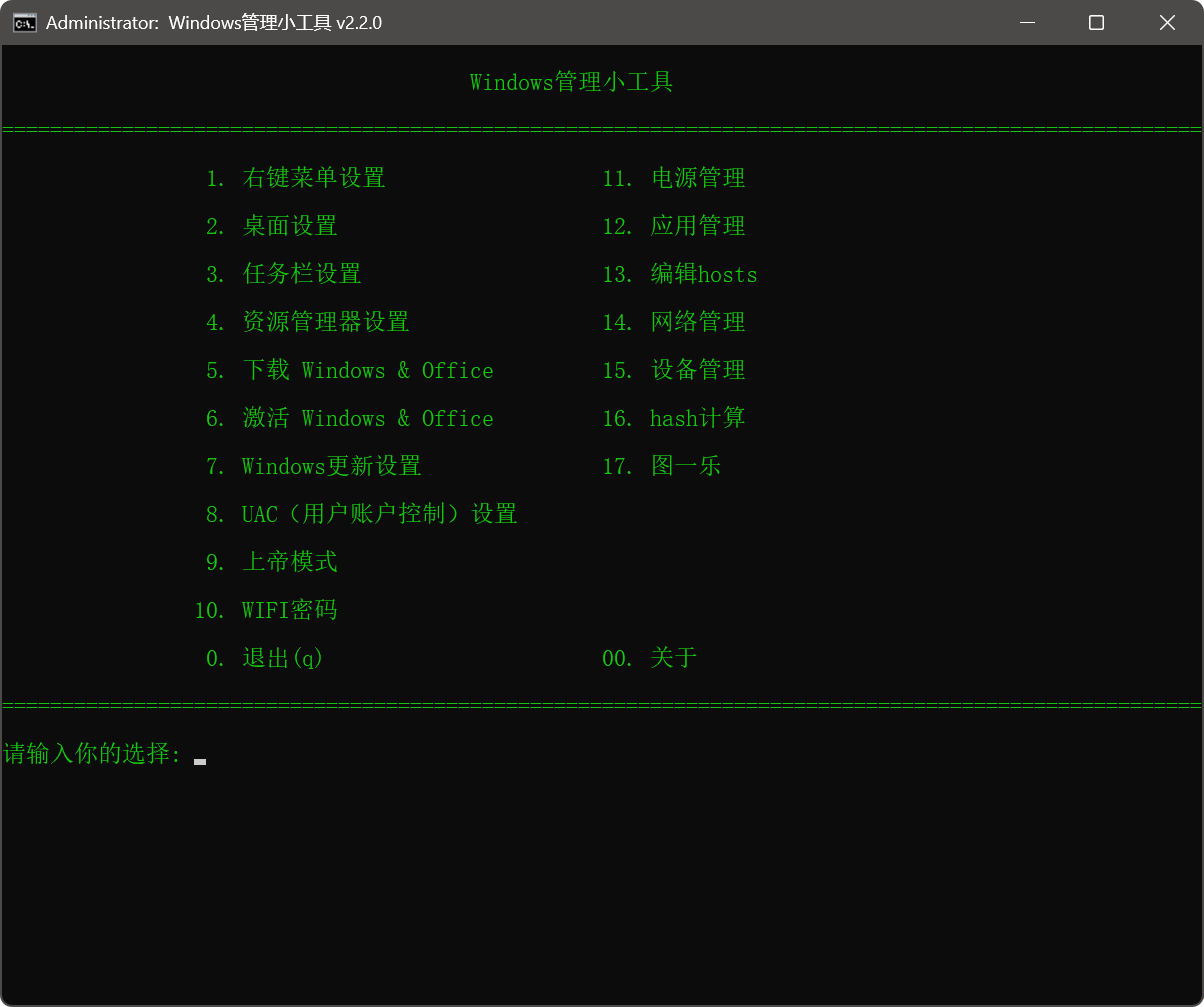
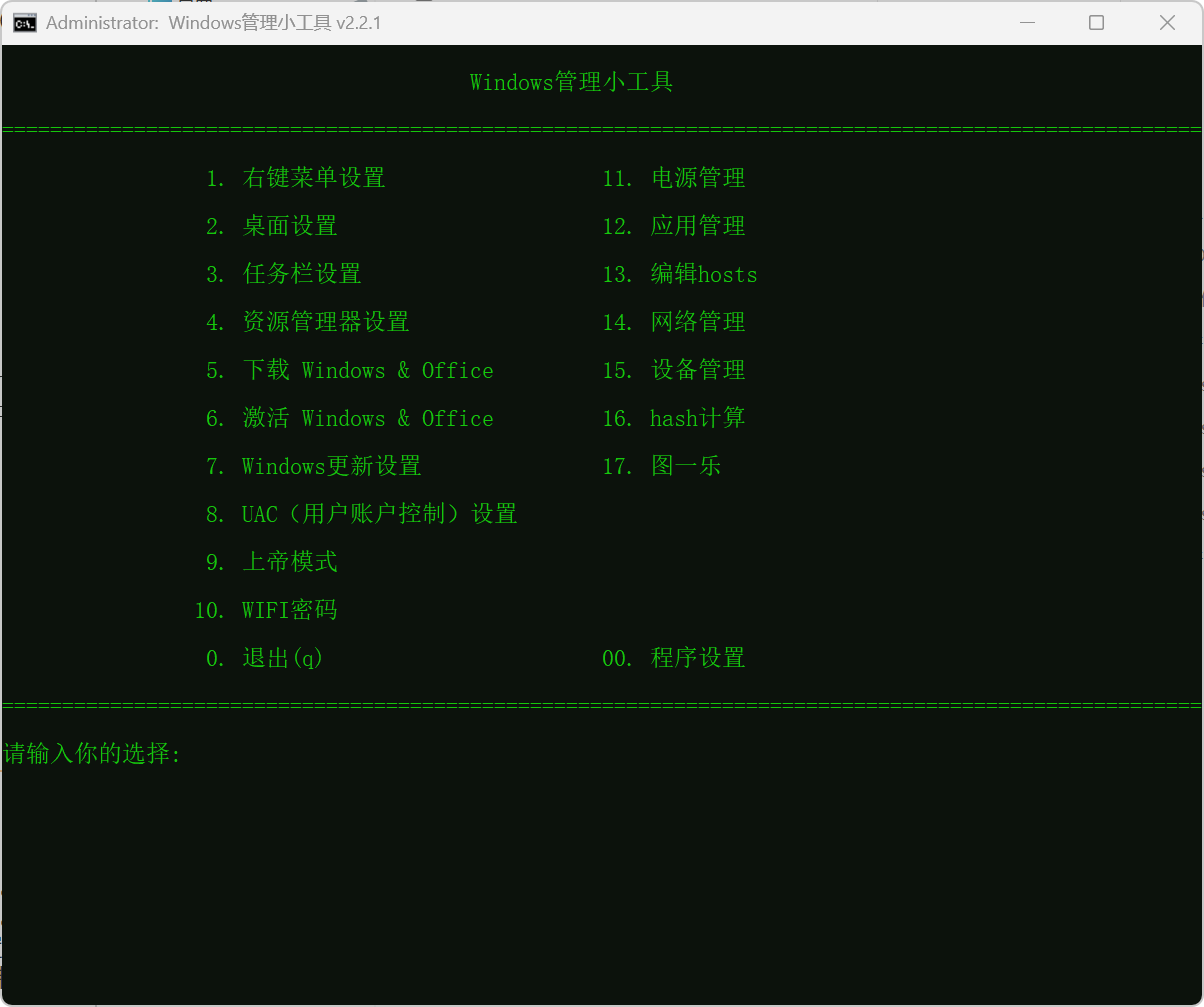
v2.2.1版本，关于更换为程序设置，包含（更换主题，检查更新，关于）; 桌面设置修复添加网络连接不生效问题

Changed region(s): [[0.0, 0.0, 1.0, 0.0616], [0.0, 0.9851, 1.0, 1.0], [0.5224, 0.6465, 0.6146, 0.6773]]

diff --git a/README.md b/README.md
@@ -26,7 +26,7 @@
 | 14       | 🖧  网络管理               |
 | 15       | 🛠  设备管理               |
 | 16       | 😄 图一乐                  |
-| 00       | ℹ 关于                    |
+| 00       | ⚙ 程序设置                    |
 | 0 / q    | ❌ 退出程序                |
 
 ## ✏详细功能
@@ -49,6 +49,7 @@
   - 显示windows版本水印
   - 隐藏windows版本水印
   - 设置Bing每日桌面背景
+  - 提取桌面壁纸
 - 任务栏设置
   - 一键净化任务栏
   - 禁用小组件
@@ -159,19 +160,21 @@
   - 照相机开关
   - 蓝牙开关
 - 图一乐
-- 关于
+- 程序设置
+  - 更换主题
   - 检查更新
+  - 关于
 
 ## 📦 使用说明
 
-1. **双击Windows管理小工具.bat运行**  
+1. **双击 `WindowsManageTool.bat` 运行**  
    因为工具的很多功能需要管理员权限，所以在脚本的开头默认使用了管理员来运行脚本，无需手动管理员运行。
 
 2. **操作方式**  
    启动后根据提示输入功能编号，即可进入对应模块进行设置或操作。
 
 3. **系统兼容性**  
-   - 本工具请在Windows 11/10 中使用。因每个人电脑设置差异，可能导致无法使用本脚本。
+   - 本工具请在Windows 11/10 中使用。因每个人电脑设置差异，部分功能可能无法使用，请自行测试。
    - 建议使用简体中文系统，以确保字符显示正常
 
 ---
